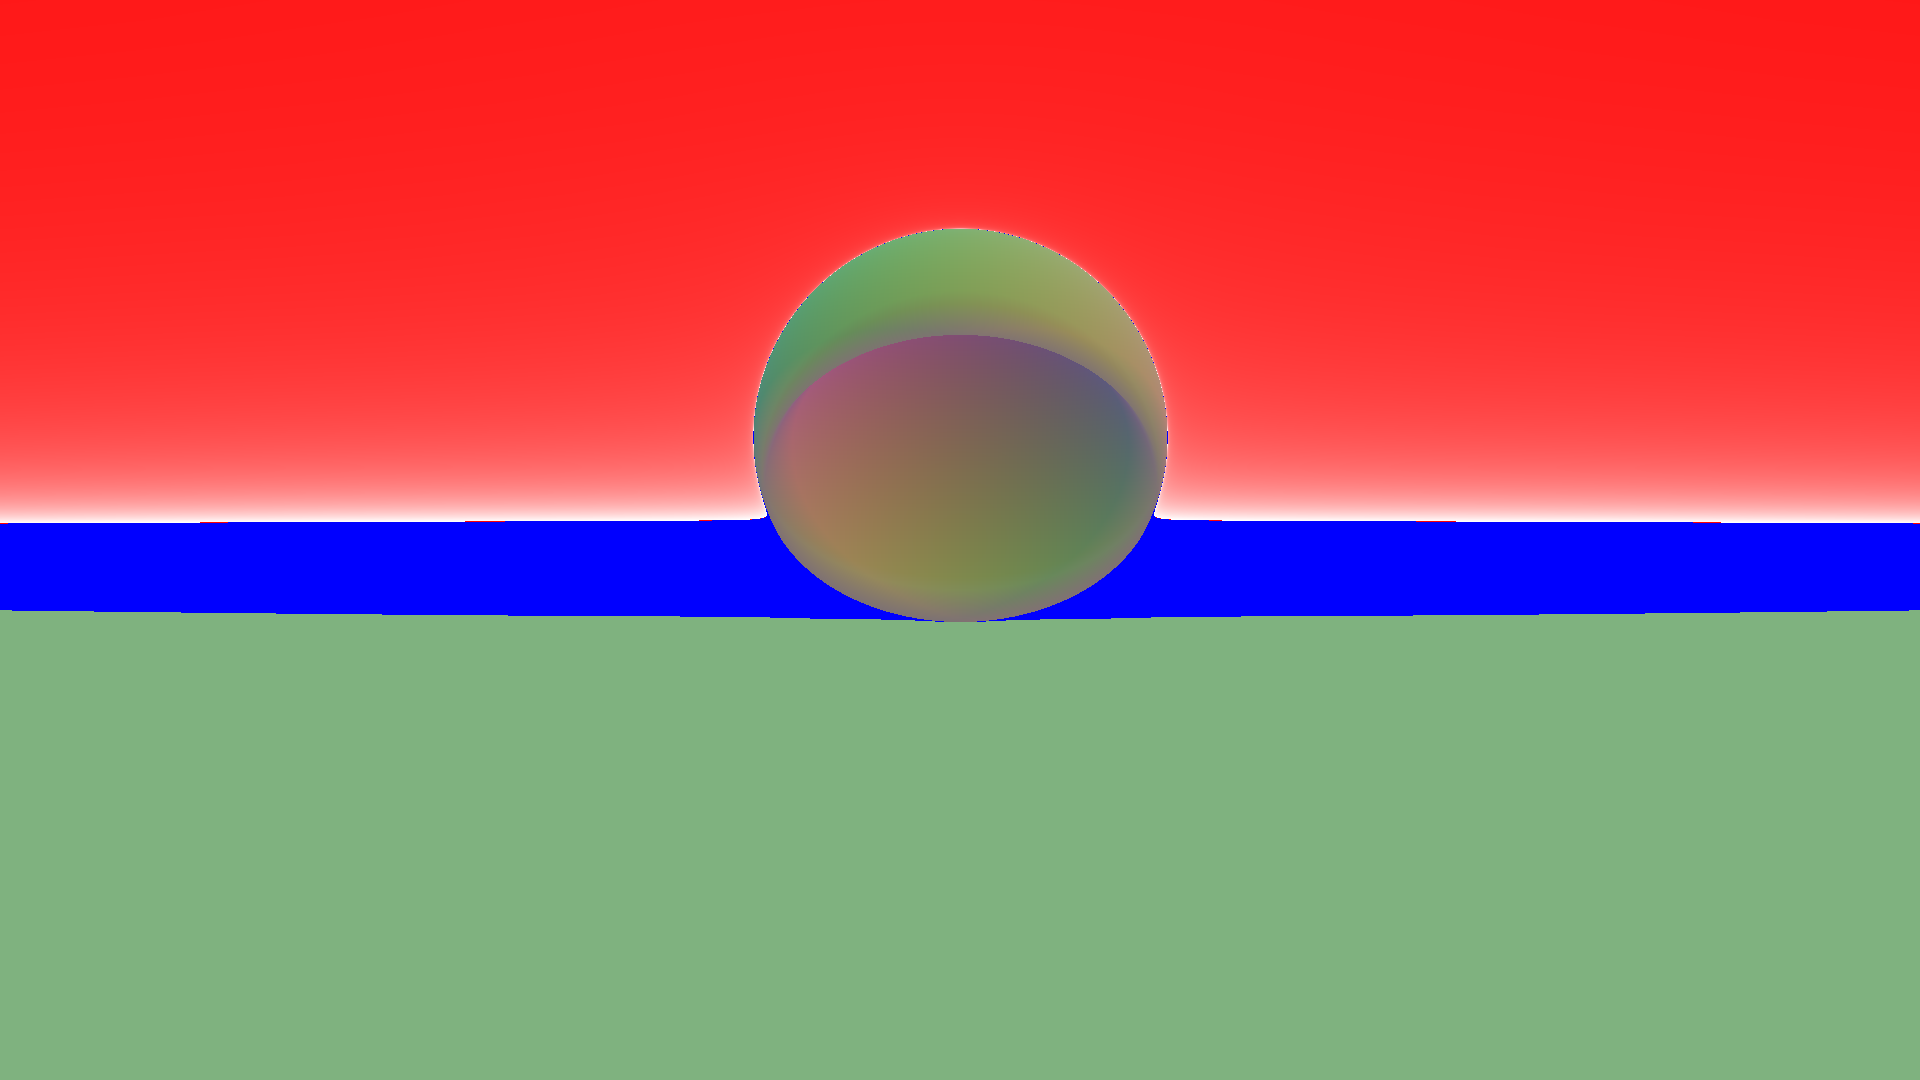
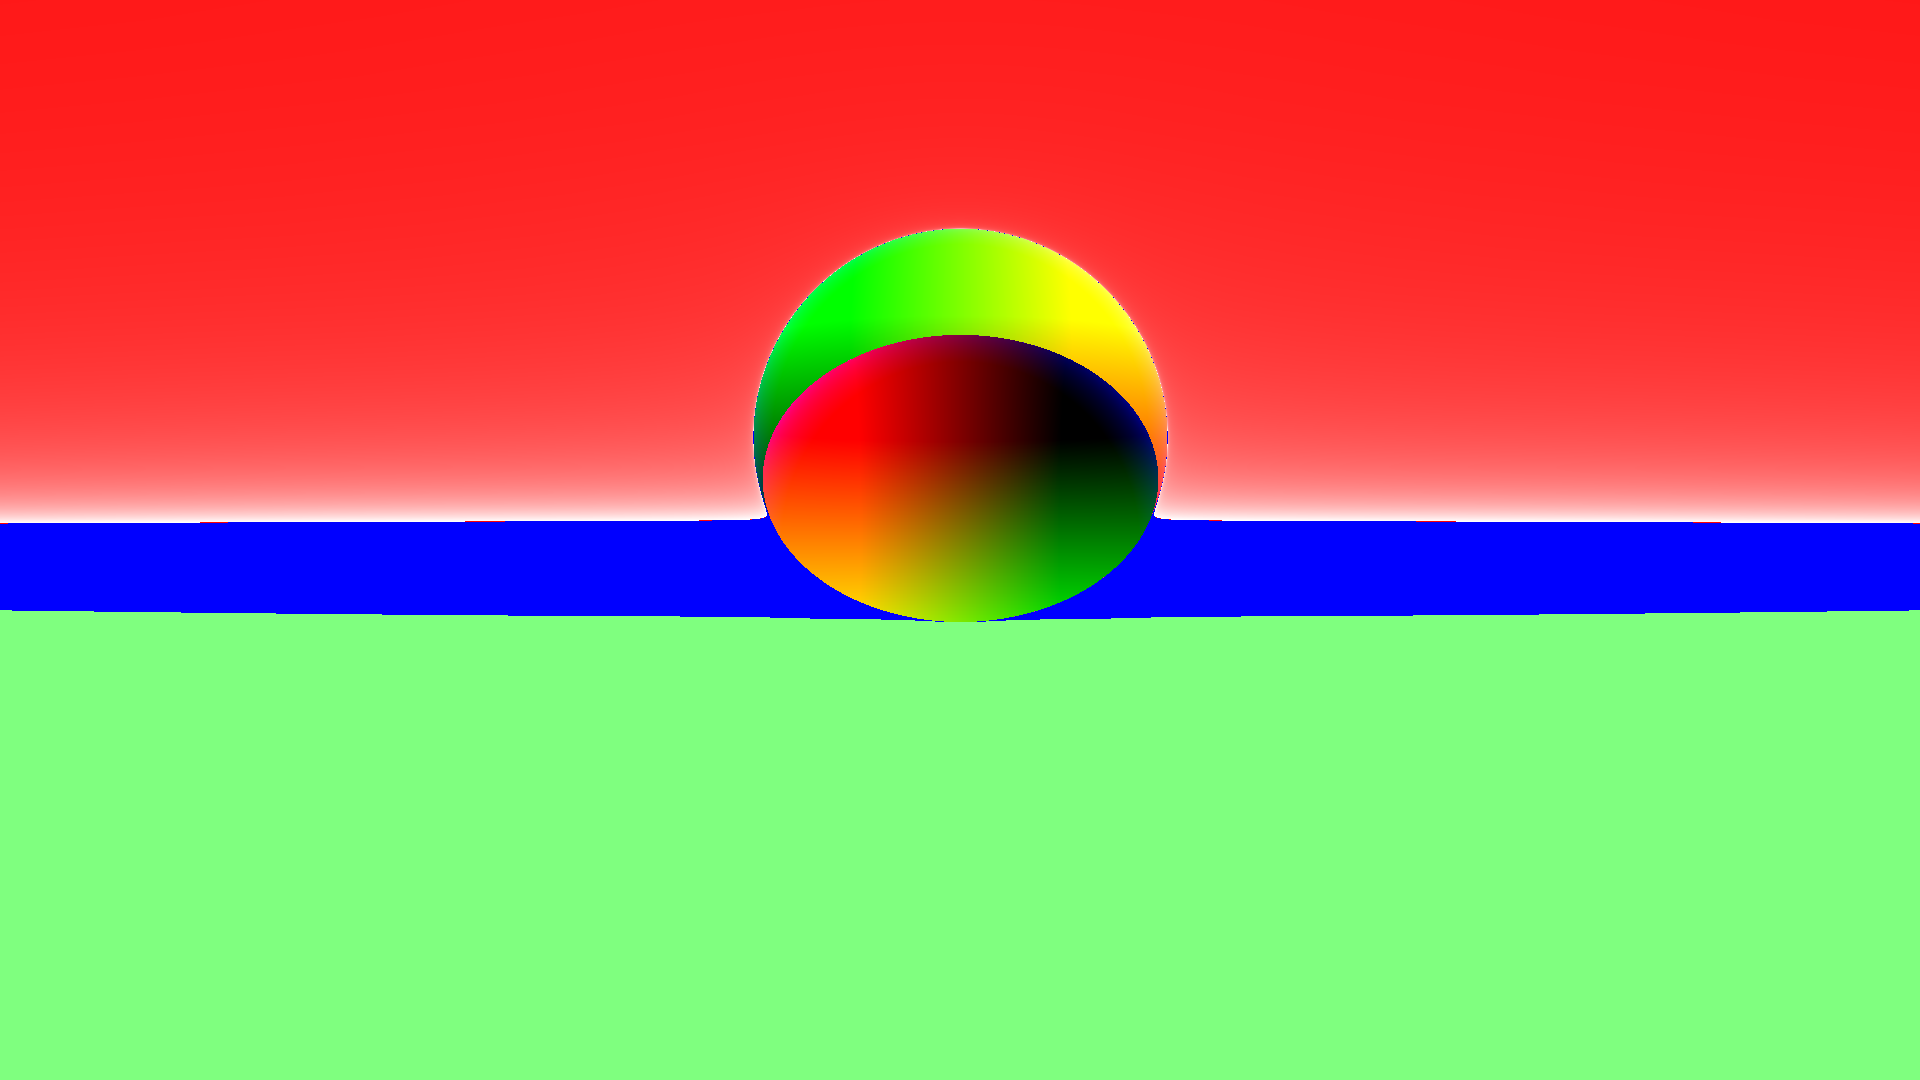
f64

diff --git a/src/vector3.rs b/src/vector3.rs
@@ -2,24 +2,24 @@ use std::ops::{Add, AddAssign, Sub, SubAssign};
 
 #[derive(Clone, Copy, Debug)]
 pub struct Vector3 {
-    pub x: f32,
-    pub y: f32,
-    pub z: f32,
+    pub x: f64,
+    pub y: f64,
+    pub z: f64,
 }
 
 impl Vector3 {
     #[inline]
-    pub fn magnitude_sq(&self) -> f32 {
+    pub fn magnitude_sq(&self) -> f64 {
         self.x * self.x + self.y * self.y + self.z * self.z
     }
 
     #[inline]
-    pub fn magnitude(&self) -> f32 {
+    pub fn magnitude(&self) -> f64 {
         self.magnitude_sq().sqrt()
     }
 
     #[inline]
-    pub fn dot(self, other: Vector3) -> f32 {
+    pub fn dot(self, other: Vector3) -> f64 {
         self.x * other.x + self.y * other.y + self.z * other.z
     }
 
@@ -34,7 +34,7 @@ impl Vector3 {
     }
 
     #[inline]
-    pub fn rotate(&self, axis: Vector3, angle: f32) -> Vector3 {
+    pub fn rotate(&self, axis: Vector3, angle: f64) -> Vector3 {
         let (sin_a, cos_a) = angle.sin_cos();
         let dot_product = self.dot(axis);
         let cross_product = self.cross(axis);
@@ -44,7 +44,7 @@ impl Vector3 {
     }
 
     #[inline]
-    pub fn multiply_scalar(self, scalar: f32) -> Vector3 {
+    pub fn multiply_scalar(self, scalar: f64) -> Vector3 {
         Vector3 {
             x: self.x * scalar,
             y: self.y * scalar,
@@ -107,9 +107,9 @@ impl SubAssign for Vector3 {
     }
 }
 
-impl From<(f32, f32, f32)> for Vector3 {
+impl From<(f64, f64, f64)> for Vector3 {
     #[inline]
-    fn from((x, y, z): (f32, f32, f32)) -> Self {
+    fn from((x, y, z): (f64, f64, f64)) -> Self {
         Vector3 { x, y, z }
     }
 }

diff --git a/src/render.rs b/src/render.rs
@@ -13,7 +13,7 @@ pub fn render(scene: &Scene, (width, height): (u32, u32)) -> RgbaImage {
 
             let ray = scene
                 .camera
-                .get_ray(x as f32 / width as f32, y as f32 / height as f32);
+                .get_ray(x as f64 / width as f64, y as f64 / height as f64);
 
             march(ray, scene).color
         })
@@ -27,19 +27,19 @@ pub fn render(scene: &Scene, (width, height): (u32, u32)) -> RgbaImage {
     image
 }
 
-pub fn signed_distance(point: Vector3, scene: &Scene) -> f32 {
+pub fn signed_distance(point: Vector3, scene: &Scene) -> f64 {
     scene
         .entities
         .iter()
         .map(|entity| entity.distance_from(point))
-        .reduce(f32::min)
+        .reduce(f64::min)
         .unwrap_or_default()
 }
 
 pub fn calculate_normal(point: Vector3, scene: &Scene) -> Vector3 {
-    let small_step_x = (0.1, 0.0, 0.0).into();
-    let small_step_y = (0.0, 0.1, 0.0).into();
-    let small_step_z = (0.0, 0.0, 0.1).into();
+    let small_step_x = (0.00001, 0.0, 0.0).into();
+    let small_step_y = (0.0, 0.00001, 0.0).into();
+    let small_step_z = (0.0, 0.0, 0.00001).into();
 
     Vector3 {
         x: signed_distance(point + small_step_x, scene)
@@ -49,6 +49,7 @@ pub fn calculate_normal(point: Vector3, scene: &Scene) -> Vector3 {
         z: signed_distance(point + small_step_z, scene)
             - signed_distance(point - small_step_z, scene),
     }
+    .normalize()
 }
 
 pub fn march(mut ray: ViewRay, scene: &Scene) -> ViewRay {

diff --git a/src/camera.rs b/src/camera.rs
@@ -1,21 +1,21 @@
 use crate::{ray::ViewRay, vector3::Vector3};
 
 pub struct Camera {
-    pub fov: f32,
+    pub fov: f64,
     pub position: Vector3,
     pub orientation: Vector3,
-    horizontal_aspect: f32,
-    vertical_aspect: f32,
-    horizontal_fov: f32,
-    vertical_fov: f32,
+    horizontal_aspect: f64,
+    vertical_aspect: f64,
+    horizontal_fov: f64,
+    vertical_fov: f64,
 }
 
 impl Camera {
     pub fn new(
-        fov: f32,
+        fov: f64,
         position: impl Into<Vector3>,
         orientation: impl Into<Vector3>,
-        (width, height): (f32, f32),
+        (width, height): (f64, f64),
     ) -> Self {
         let horizontal_aspect = width / width.min(height);
         let vertical_aspect = height / width.min(height);
@@ -35,7 +35,7 @@ impl Camera {
     }
 
     // Gets a ray given UV coordinates
-    pub fn get_ray(&self, x: f32, y: f32) -> ViewRay {
+    pub fn get_ray(&self, x: f64, y: f64) -> ViewRay {
         let angle_y = (y - 0.5) * self.vertical_fov;
         let angle_x = (x - 0.5) * self.horizontal_fov;
 

diff --git a/src/primitives/sphere.rs b/src/primitives/sphere.rs
@@ -4,11 +4,11 @@ use super::SignedDistance;
 
 pub struct Sphere {
     position: Vector3,
-    radius: f32,
+    radius: f64,
 }
 
 impl Sphere {
-    pub fn new(position: impl Into<Vector3>, radius: f32) -> Self {
+    pub fn new(position: impl Into<Vector3>, radius: f64) -> Self {
         Sphere {
             position: position.into(),
             radius,
@@ -17,7 +17,7 @@ impl Sphere {
 }
 
 impl SignedDistance for Sphere {
-    fn distance_from(&self, position: Vector3) -> f32 {
+    fn distance_from(&self, position: Vector3) -> f64 {
         (position - self.position).magnitude() - self.radius
     }
 }

diff --git a/src/combine.rs b/src/combine.rs
@@ -7,7 +7,7 @@ pub enum Combine<A: SignedDistance, B: SignedDistance> {
 }
 
 impl<A: SignedDistance, B: SignedDistance> SignedDistance for Combine<A, B> {
-    fn distance_from(&self, position: crate::vector3::Vector3) -> f32 {
+    fn distance_from(&self, position: crate::vector3::Vector3) -> f64 {
         use Combine::*;
         let (a, b) = match self {
             Subtract(a, b) | Intersect(a, b) | Union(a, b) => {

diff --git a/src/ray.rs b/src/ray.rs
@@ -22,12 +22,12 @@ impl ViewRay {
     }
 
     #[inline]
-    pub fn len_sq(&self) -> f32 {
+    pub fn len_sq(&self) -> f64 {
         (self.origin - self.position).magnitude_sq()
     }
 
     #[inline]
-    pub fn step(&mut self, distance: f32) {
+    pub fn step(&mut self, distance: f64) {
         self.steps += 1;
         self.position += self.orientation.multiply_scalar(distance);
     }

diff --git a/src/primitives/plane.rs b/src/primitives/plane.rs
@@ -17,7 +17,7 @@ impl Plane {
 }
 
 impl SignedDistance for Plane {
-    fn distance_from(&self, position: Vector3) -> f32 {
+    fn distance_from(&self, position: Vector3) -> f64 {
         self.normal.dot(position - self.position)
     }
 }

diff --git a/src/primitives.rs b/src/primitives.rs
@@ -4,5 +4,5 @@ pub mod sphere;
 use crate::vector3::Vector3;
 
 pub trait SignedDistance: Sync {
-    fn distance_from(&self, position: Vector3) -> f32;
+    fn distance_from(&self, position: Vector3) -> f64;
 }
